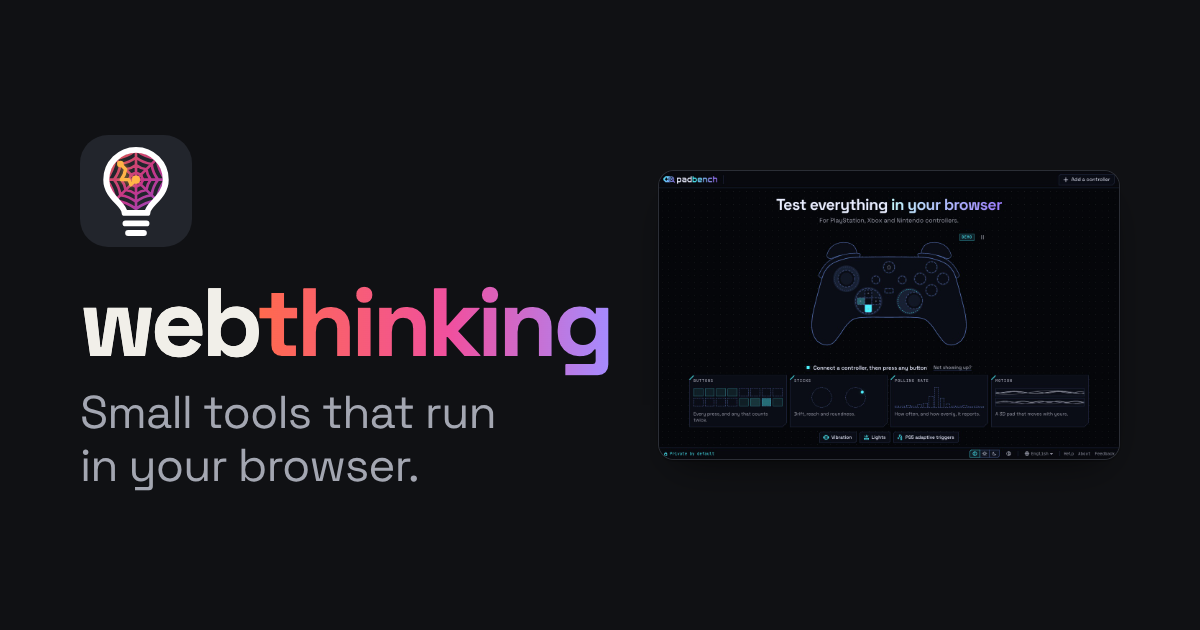
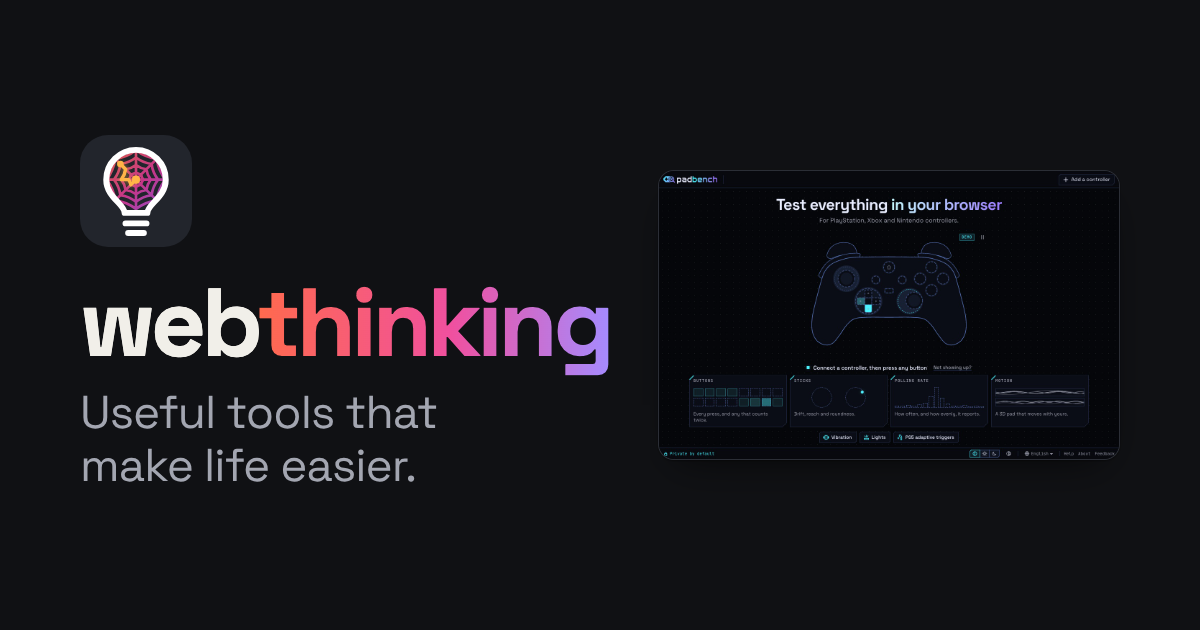
Add Rigscope, and say the tools make life easier
- Rigscope, the Windows hardware monitor for gamers, gets a card: what
  it tells you, "Coming soon to Steam" where the other cards have a
  button, since it has no public page yet, and light and dark
  screenshots of its PC page, cropped to 16:10 like PadBench's.
- PadBench and Rigscope share the last row on wide screens as two
  half-width cards, their screenshots lined up at the bottom. Where the
  cards stack, Rigscope comes last.
- "Useful tools that make life easier" replaces "Small tools that run
  in your browser", now that one of them is a desktop app: in the side
  panel, the title, the description and share text, and the share
  image, where only the tagline is redrawn.

Changed region(s): [[0.0617, 0.6032, 0.4317, 0.7841]]

diff --git a/index.html b/index.html
@@ -3,8 +3,8 @@
 <head>
   <meta charset="utf-8">
   <meta name="viewport" content="width=device-width, initial-scale=1">
-  <title>webthinking · Small tools that run in your browser</title>
-  <meta name="description" content="Small tools that run in your browser: ReadSooner, PadBench, Scorpion Solitaire and gcwind.">
+  <title>webthinking · Useful tools that make life easier</title>
+  <meta name="description" content="Useful tools that make life easier: ReadSooner, PadBench, Scorpion Solitaire, gcwind and Rigscope.">
   <meta name="theme-color" content="#eceae3">
   <script>
     // Apply the saved theme before first paint. Light is the default.
@@ -23,8 +23,8 @@
 
   <meta property="og:type" content="website">
   <meta property="og:url" content="https://webthinking.io/">
-  <meta property="og:title" content="webthinking · Small tools that run in your browser">
-  <meta property="og:description" content="Small tools that run in your browser: ReadSooner, PadBench, Scorpion Solitaire and gcwind.">
+  <meta property="og:title" content="webthinking · Useful tools that make life easier">
+  <meta property="og:description" content="Useful tools that make life easier: ReadSooner, PadBench, Scorpion Solitaire, gcwind and Rigscope.">
   <meta property="og:image" content="https://webthinking.io/og.png">
   <meta property="og:image:width" content="1200">
   <meta property="og:image:height" content="630">
@@ -42,7 +42,7 @@
         <svg class="mark" viewBox="0 0 64 64" aria-hidden="true" focusable="false"><defs><linearGradient id="wtg" x1="14" y1="8" x2="52" y2="50" gradientUnits="userSpaceOnUse"><stop offset="0" stop-color="#ff6a4d"/><stop offset=".5" stop-color="#e2399a"/><stop offset="1" stop-color="#8a5cff"/></linearGradient><filter id="wtw" x="-50%" y="-50%" width="200%" height="200%"><feGaussianBlur stdDeviation="1.4"/></filter><clipPath id="wtc"><path d="M25.5 44.5C25.5 39.5 15 35.5 15 25.5A17 17 0 0 1 49 25.5C49 35.5 38.5 39.5 38.5 44.5Z"/></clipPath><clipPath id="wtt"><rect width="64" height="64" rx="16"/></clipPath></defs><rect class="mark-tile" width="64" height="64" rx="16"/><g clip-path="url(#wtt)"><g clip-path="url(#wtc)"><path d="M32 25.5L32 -14.5M32 25.5L60.28 -2.78M32 25.5L72 25.5M32 25.5L60.28 53.78M32 25.5L32 65.5M32 25.5L3.72 53.78M32 25.5L-8 25.5M32 25.5L3.72 -2.78M32 21.3Q33.32 22.32 34.97 22.53M34.97 22.53Q35.18 24.18 36.2 25.5M36.2 25.5Q35.18 26.82 34.97 28.47M34.97 28.47Q33.32 28.68 32 29.7M32 29.7Q30.68 28.68 29.03 28.47M29.03 28.47Q28.82 26.82 27.8 25.5M27.8 25.5Q28.82 24.18 29.03 22.53M29.03 22.53Q30.68 22.32 32 21.3M32 17.1Q34.64 19.14 37.94 19.56M37.94 19.56Q38.36 22.86 40.4 25.5M40.4 25.5Q38.36 28.14 37.94 31.44M37.94 31.44Q34.64 31.86 32 33.9M32 33.9Q29.36 31.86 26.06 31.44M26.06 31.44Q25.64 28.14 23.6 25.5M23.6 25.5Q25.64 22.86 26.06 19.56M26.06 19.56Q29.36 19.14 32 17.1M32 12.9Q35.95 15.95 40.91 16.59M40.91 16.59Q41.55 21.55 44.6 25.5M44.6 25.5Q41.55 29.45 40.91 34.41M40.91 34.41Q35.95 35.05 32 38.1M32 38.1Q28.05 35.05 23.09 34.41M23.09 34.41Q22.45 29.45 19.4 25.5M19.4 25.5Q22.45 21.55 23.09 16.59M23.09 16.59Q28.05 15.95 32 12.9M32 8.7Q37.27 12.77 43.88 13.62M43.88 13.62Q44.73 20.23 48.8 25.5M48.8 25.5Q44.73 30.77 43.88 37.38M43.88 37.38Q37.27 38.23 32 42.3M32 42.3Q26.73 38.23 20.12 37.38M20.12 37.38Q19.27 30.77 15.2 25.5M15.2 25.5Q19.27 20.23 20.12 13.62M20.12 13.62Q26.73 12.77 32 8.7" fill="none" stroke="url(#wtg)" stroke-width="1.5" stroke-linecap="round" opacity=".85"/><path d="M32 25.5L29.03 28.47Q28.82 26.82 27.8 25.5L23.6 25.5Q25.64 22.86 26.06 19.56L23.09 16.59" fill="none" stroke="#ffb547" stroke-width="3" stroke-linecap="round" stroke-linejoin="round" opacity=".4" filter="url(#wtw)"/><path d="M32 25.5L29.03 28.47Q28.82 26.82 27.8 25.5L23.6 25.5Q25.64 22.86 26.06 19.56L23.09 16.59" fill="none" stroke="#ffb547" stroke-width="1.9" stroke-linecap="round" stroke-linejoin="round"/><circle cx="23.09" cy="16.59" r="1.9" fill="#ffb547"/><circle cx="32" cy="25.5" r="2.3" fill="#ffb547"/></g><path d="M25.5 44.5C25.5 39.5 15 35.5 15 25.5A17 17 0 0 1 49 25.5C49 35.5 38.5 39.5 38.5 44.5Z" fill="none" stroke="#fff" stroke-width="3.4" stroke-linejoin="round"/><path d="M26 50.5H38M27.5 56H36.5" stroke="#fff" stroke-width="3.4" stroke-linecap="round"/></g></svg>
         <div>
           <h1>web<span class="think">thinking</span></h1>
-          <p class="pitch">Small tools that run in your browser.</p>
+          <p class="pitch">Useful tools that make life easier.</p>
         </div>
       </div>
     </header>
@@ -64,7 +64,7 @@
         </div>
       </article>
 
-      <article class="tile tile-feature tile-end" aria-labelledby="padbench-title">
+      <article class="tile tile-half tile-end" aria-labelledby="padbench-title">
         <div class="tile-text">
           <h2 id="padbench-title">PadBench</h2>
           <p>Check any controller for stick drift, button chatter and polling rate.</p>
@@ -103,6 +103,20 @@
         <div class="shot shot-phone">
           <img class="img-light" src="/img/gcwind-light.jpg" width="860" height="1200" loading="lazy" decoding="async" alt="gcwind on a phone: the Driver tab, The Rocket at level 10, and a wind speed of 10.0.">
           <img class="img-dark" src="/img/gcwind-dark.jpg" width="860" height="1200" loading="lazy" decoding="async" alt="gcwind on a phone: the Driver tab, The Rocket at level 10, and a wind speed of 10.0.">
+        </div>
+      </article>
+
+      <article class="tile tile-half tile-end" aria-labelledby="rigscope-title">
+        <div class="tile-text">
+          <h2 id="rigscope-title">Rigscope</h2>
+          <p>How each game runs on your Windows PC, and why a session went badly: heat, an update or background load.</p>
+          <p class="actions">
+            <span class="soon">Coming soon to Steam</span>
+          </p>
+        </div>
+        <div class="shot shot-screen">
+          <img class="img-light" src="/img/rigscope-light.jpg" width="1280" height="800" loading="lazy" decoding="async" alt="Rigscope's PC page: CPU, GPU, memory and battery at a glance, and CPU and GPU use over the last two minutes.">
+          <img class="img-dark" src="/img/rigscope-dark.jpg" width="1280" height="800" loading="lazy" decoding="async" alt="Rigscope's PC page: CPU, GPU, memory and battery at a glance, and CPU and GPU use over the last two minutes.">
         </div>
       </article>
     </main>

diff --git a/style.css b/style.css
@@ -336,6 +336,18 @@ html:not(.js) .theme {
   flex-direction: column;
 }
 
+/* PadBench and Rigscope share a row. Their screenshots, the same size, sit
+   at the bottom, so they line up whichever description runs longer. */
+.tile-half {
+  grid-column: span 3;
+  display: flex;
+  flex-direction: column;
+}
+
+.tile-half .shot-screen {
+  align-items: flex-end;
+}
+
 /* The text column widens for a name too long to fit it, at the screenshot's
    expense, so the headline never runs into the screenshot. */
 .tile-feature {
@@ -347,7 +359,7 @@ html:not(.js) .theme {
 }
 
 /* PadBench comes second in the page, as it does when the cards stack, but
-   wide screens show it last, so its wide card and ReadSooner's sit apart. */
+   wide screens show it in the last row, beside Rigscope. */
 .tile-end {
   order: 1;
 }
@@ -410,6 +422,18 @@ html:not(.js) .theme {
   font-weight: 600;
   text-decoration: none;
   transition: transform 0.2s ease;
+}
+
+/* In place of the button, for an app that isn't out yet. */
+.soon {
+  display: inline-flex;
+  align-items: center;
+  min-height: 44px;
+  padding: 10px 20px;
+  border: 1px solid var(--line);
+  border-radius: 999px;
+  color: var(--muted);
+  font-weight: 600;
 }
 
 .go:hover {
@@ -493,7 +517,8 @@ html:not(.js) .theme {
 
 @media (max-width: 1100px) {
   .tile-tall,
-  .tile-wide {
+  .tile-wide,
+  .tile-half {
     grid-column: span 6;
     grid-row: auto;
   }
@@ -513,6 +538,7 @@ html:not(.js) .theme {
 
   .tile-tall .shot,
   .tile-wide .shot,
+  .tile-half .shot,
   .tile-feature .shot {
     min-height: 0;
   }
